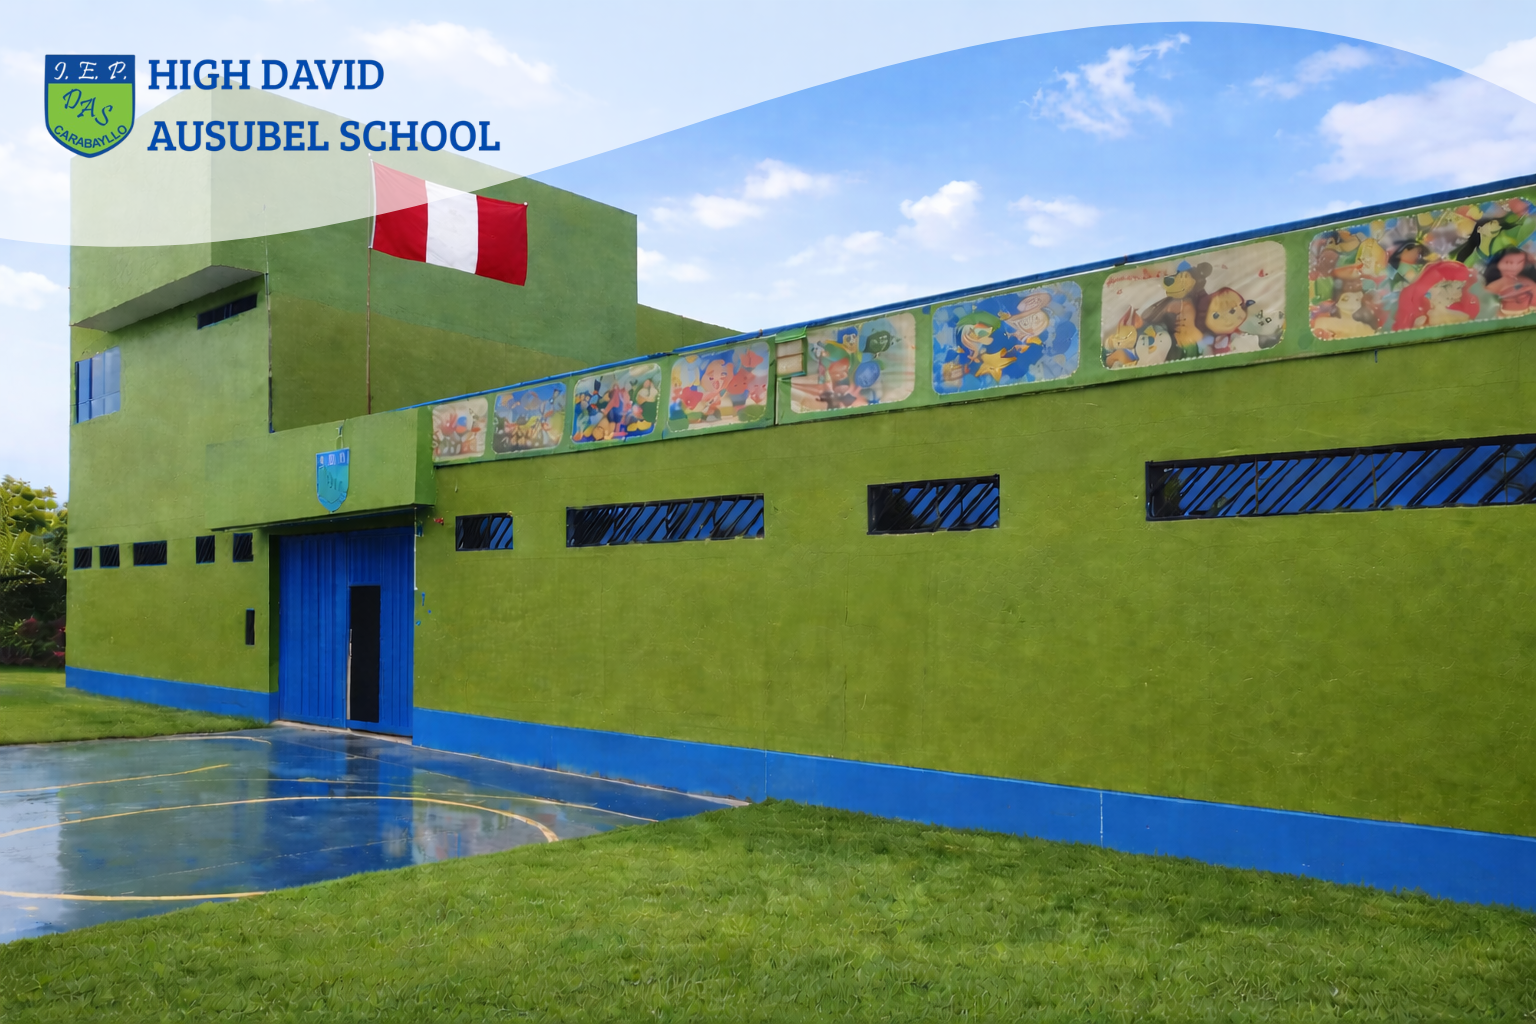
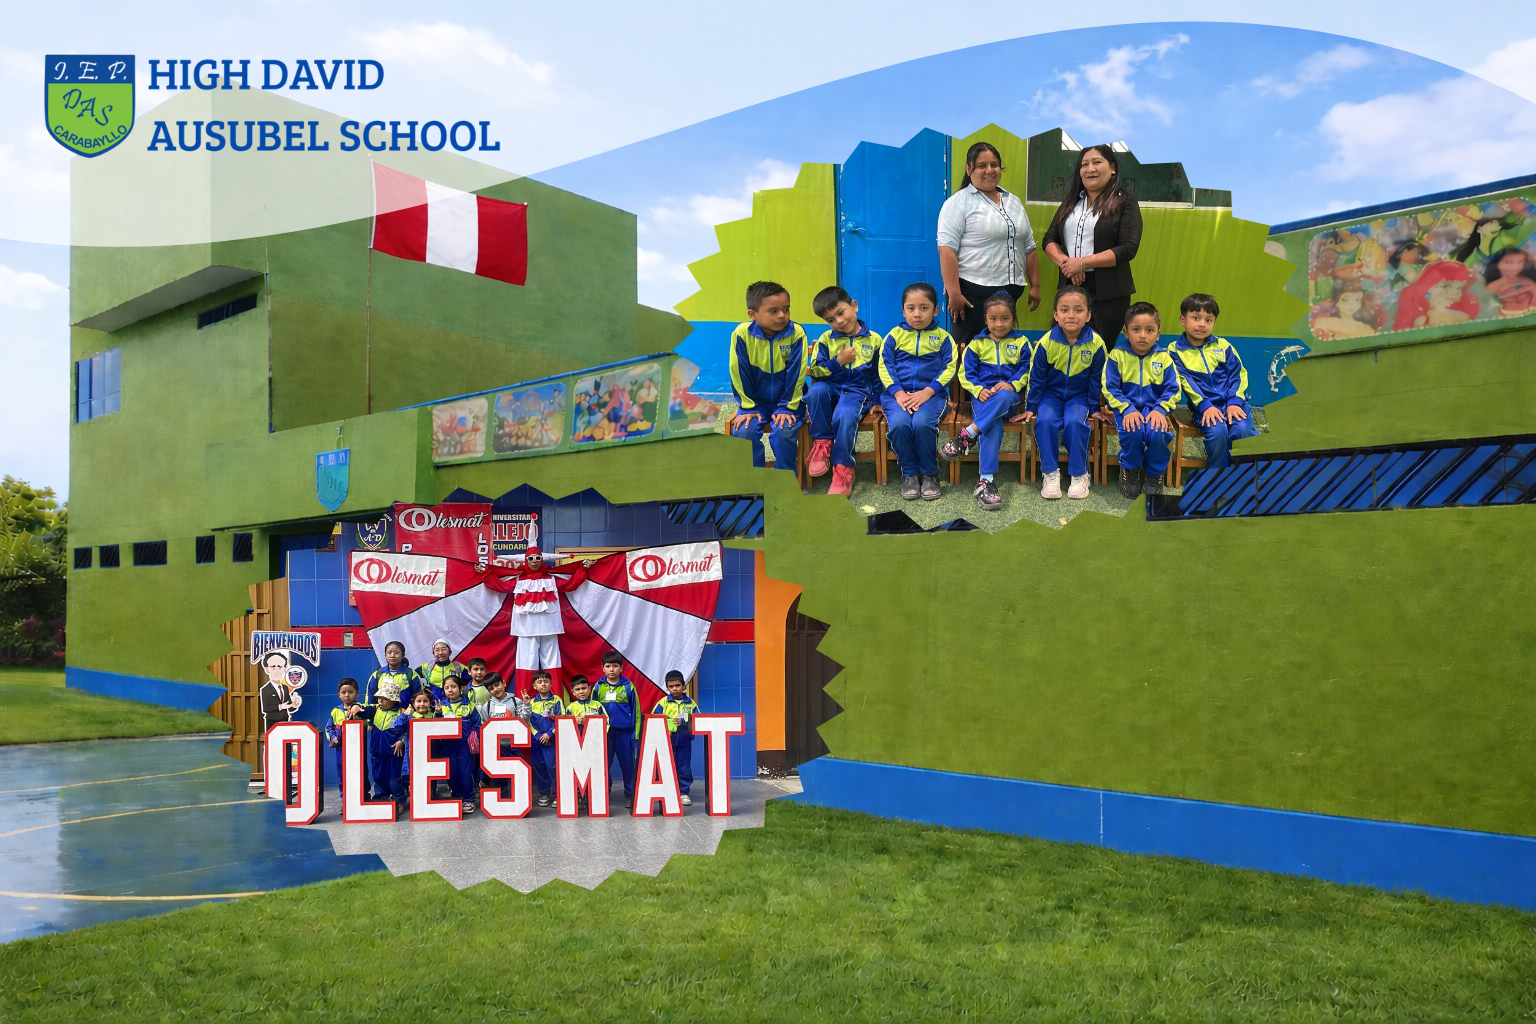
añadiendo

Changed region(s): [[0.125, 0.4688, 0.5625, 0.875], [0.4375, 0.125, 0.875, 0.5312]]

diff --git a/src/App.jsx b/src/App.jsx
@@ -61,7 +61,7 @@ function App() {
         />
 
         <Route
-          path="/mis-cursos"
+          path="/profesor/mis-cursos"
           element={
             <DashboardLayout>
               <MisCursos />
@@ -83,7 +83,7 @@ function App() {
           path="/estudiante/mis-notas"
           element={<MisNotas />} // ✅ SIN DashboardLayout
         />
-        
+
         {/* Ruta por defecto para cualquier otra URL no encontrada */}
         <Route path="*" element={<div className="p-8 text-center">404 - Página no encontrada</div>} />
 
